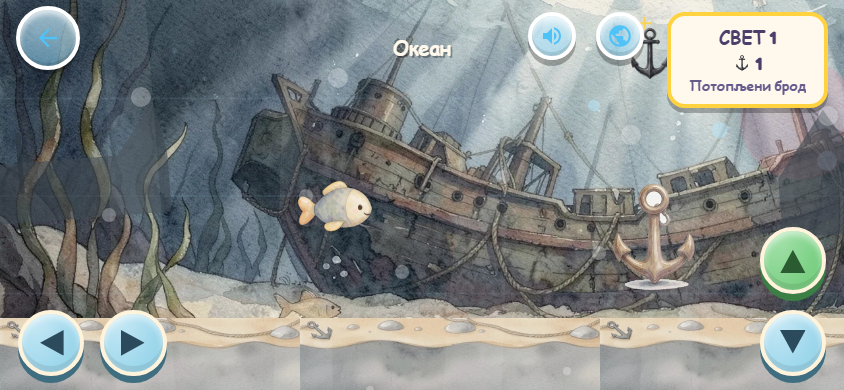
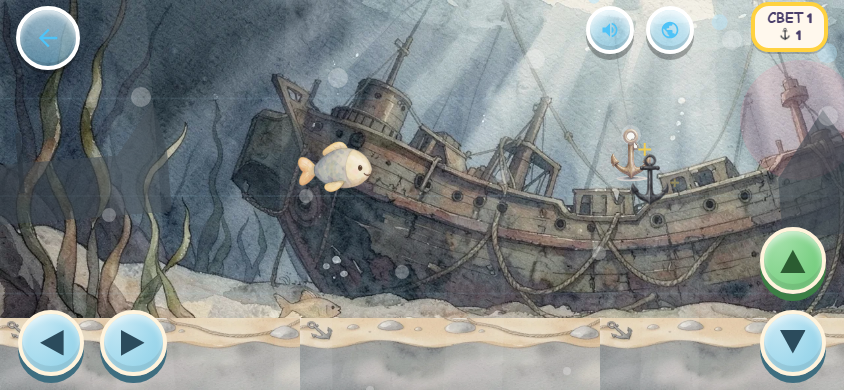
Phase 1 adventure engine complete: pf, compact HUD, reaction budget, debug overlay, screenshots; v3.0.18; docs sync

diff --git a/docs/games/adventure.js b/docs/games/adventure.js
@@ -1513,6 +1513,10 @@
             get bumpCount() { return bumpCount; },
             get heroType() { return heroType; },
             get paused() { return paused; },
+            get pf() { return pf; },
+            get scrollScale() { return scrollScale; },
+            get isCompact() { return isCompact; },
+            get debug() { return __debugPF; },
             setHeroType,
         };
         window.__adv = game;

diff --git a/game/games/adventure.js b/game/games/adventure.js
@@ -1513,6 +1513,10 @@
             get bumpCount() { return bumpCount; },
             get heroType() { return heroType; },
             get paused() { return paused; },
+            get pf() { return pf; },
+            get scrollScale() { return scrollScale; },
+            get isCompact() { return isCompact; },
+            get debug() { return __debugPF; },
             setHeroType,
         };
         window.__adv = game;

diff --git a/project/STATUS.md b/project/STATUS.md
@@ -1,56 +1,38 @@
 # Project status
 
-**Last verified:** 2026-11-20  
-**Repository:** radmanmilos/Games-for-kids  
-**Current branch:** `claude/ocean-pilot`  
-**Main HEAD:** `bdcc3d7` (PR #28, task 458 STEP 0-2) version `3.0.16`  
-**Open PR:** #29 "Explorer paper UI kit, painted pits, ground-cap alignment" → `main` (not merged; waiting for the user's visual sign-off)  
-**Branch commits:** `2abe5a8` (task 458 STEP 3-5) + task 459 pit-rework + task 460 (spikes ship no art, intermediate) + task 461 (painted spike strip v4 integrated) on top
+**Last verified:** 2026-11-23
+**Repository:** radmanmilos/Games-for-kids
+**Current branch:** `claude/adventure-playability`
+**Version:** `3.0.18`
 
-## Task 459 — pit rework (this session, OpenCode/Big Pickle)
+## Task 463 — Phase 1 adventure engine (this session, Kilo/openrouter/free)
 
-The user rejected the first pit strips: bird's-eye look, colours not matching the worlds, pit edges not meeting the ground tiles, and no visible spikes. Both causes fixed:
+Extended the shared adventure engine (`game/games/adventure.js`) with the Phase 1 fixes from `resources/General_reviews/OCEAN_DRIVING_FIXES.md` (1A–1E), applied to all four games that ride the engine (driving, ocean, space, dino-grounded paths):
 
-- **Crop** — the old crop only rejected near-white paper, so the painting's warm cream margin (223,210,185) shipped as a stripe at the pit edge. `tools/.cache/pit_crop2.js` now classifies by hue and **refuses to write** a strip whose edge columns are not hazard paint.
-- **Draw** — one strip was stretched across every 300–500 px pit. Strips are 4:1 (`800×200`) like a real pit and are tiled at native scale with src-rect draws, a neutral depth gradient and an 8–16 px bank shadow.
-- **Water** 9.0 KB (`pit-water-v3.png`, x10..1013 y128..378, hazard 1.00, edges 1.00/1.00, edge `#9dd2d6`).
-- **Spikes** 17.2 KB (dense stone band of `pit-spikes.png`) + bigger outlined triangles (46±10 px, `#eef3fa` face, 3 px `#14161c` outline, 8 px base) so 9–10 spikes are visible.
-- **Lava** 14.0 KB — **derived, not generated**: three Cloudflare attempts all framed the square with cream and the crop guard rejected each (v4 hazard 0.02, v5 core 112 px). `tools/.cache/pit_derive_lava.js` remaps the accepted water strip by luminance → molten ramp with a depth factor (crest `#ffd27f`, body `#c24d1e`→`#c6451a`).
+- **1A/1B — playfield rectangle + entity scale.** `computePlayfield()` measures the real HUD (above) and control (below) DOM rects on every resize and builds `pf = {top, bottom, left, right, height}`, then `u = clamp(pf.height / 520, 0.5, 1)`. Hero clamps, obstacle/coin Y, and the goal all use `pf`; obstacle/coin sizes scale by `u`.
+- **1C — compact HUD on short screens.** When `canvas.height < 500`: `#adv-game` gets `adv-compact`, the page title hides, the score card shrinks to icon+number (world-name line dropped), and the HUD band caps at 52 px (measured) ≤ 56 px.
+- **1D — reaction-time budget.** Scroll speed scales by `clamp(canvas.width/1024, 0.6, 1)` in `updateDrive`, so obstacle-enters-screen-to-hero time stays ≥ 2.0 s at every viewport (measured ≈ 4.5 s at 844×390).
+- **1E — debug overlay.** `?debug=pf` draws the playfield rect, the hero hitbox, every obstacle hitbox and the shadow baseline (no network, no UI text).
+- **Ocean coin Y bug.** Coins divided by `goalDy` but ocean `dy` values exceed it, sending coins to `y=1112` (off-screen). Fixed to use the level's true `maxDy`.
+
+Exposed read-only `pf`, `scrollScale`, `isCompact`, `debug` on `window.__adv` for smoke guards.
 
 ## Verification
 
-- `node tools/build_offline.js`: 499 cache entries / 498 manifest.
-- `bash tools/sync-docs.sh`: `docs/` mirrors `game/` (500 files); hashes of the changed JS/strips/manifest verified identical.
 - `node tools/check_fast.js`: 10/10 green.
-- `node tools/check_release.js`: fast gate PASS + full smoke battery PASS — "Release gate green. Nothing was written." (log `tools/.cache/task458-check_release2.log`).
-- `tools/kitty_smoke.js`: 0 FAIL. Three new guards (coverage as contiguous runs, aspect/no-stretch, strip edge colours, spike pixels) each proven to FAIL on mutated input; files restored from pre-mutation **copies** and hash-matched (`906f81cb001caa7e` JS, `5b0bccf88de11c4d` strip).
-- Review screenshots refreshed: `screenshot.js --review=Screenshot_Review --pages=explorer,fastcat --task=458` → 8 shots, no browser runtime errors.
-- CI run [44038945180](https://github.com/radmanmilos/Games-for-kids/actions/runs/44038945180) on `afcc354`: **success** (smoke matrix + Release QA + Pages).
-- Per-task evidence: `tools/.cache/task458-validation.md`.
-
-## Visual QA
-
-- **This model (Big Pickle) cannot read images** — verdicts come from subagents on `opencode/nemotron-3.5-super-vl-free` or from the user. The user's sign-off is still required before merge.
-- Corrected close-ups (`tools/.cache/task458_pit_{water,spikes,lava}.png`): water **ACCEPT**, spikes **ACCEPT** (9–10 visible spikes), lava **ACCEPT** — all read as side-view pits with world-matching colours and clean edges.
-- Trap recorded in `project/lessons/testing-harness.md`: `update()` re-drives `cameraX` (`kitty-standalone.js:1407`), so review captures must pause the game before framing — the first capture set slid off the pit and produced phantom "cream stripe"/"vertical seam" verdicts against ground tiles.
-
-## Little Explorer — current state
-
-- Every child-visible surface (HUD, modals, hero tiles, worlds picker, action button) uses the shared paper kit; icons, arrows and letters stay crisp DOM/SVG.
-- Worlds picker: 11 paper cards with a 400×116 thumbnail of each world's own scene (0 generation neurons).
-- Ground: all 11 worlds use their own painted `terrain-*-top` tile; the soft-cap float is fixed by cropping to `solidTop`.
-- All four seasons share one `goal-house`.
-- Pits: painted strips, tiled at native scale, procedural animation and the flat fill fallback kept; hazard-to-world mapping and collision unchanged.
+- `node tools/build_offline.js`: 546 cache entries / 545 manifest; `bash tools/sync-docs.sh`: `docs/` mirrors `game/` (547 files).
+- Smokes: `driving_smoke.js` PASS, `ocean_smoke.js` PASS, `dino_smoke.js` PASS, `space_smoke.js` PASS, `adventure_smoke.js` PASS — all report "no browser runtime errors".
+- Headless probe at 844×390: `adv-compact` applied, title hidden, HUD band 52 px, pf 116→292, `scrollScale` 0.824 → reaction ≈ 4.5 s.
+- Review screenshots refreshed: `screenshot.js --review=Screenshot_Review --pages=driving,ocean --task=462` → 8 shots (4 viewports × 2 games), no browser runtime errors.
+- Version: `3.0.17` → `3.0.18` (C = minor segment).
 
 ## Open tasks (from ACTIVE.md)
 
 - 435 (Gate 5 family rollout): NEW
 - 436 (Gate 6: 11-world regression): NEW
 - 437 (Little Explorer full review + screenshots): NEW — recommend CLOSE
-- 438–443 (art reorganization): NEW — recommend DO NOT DO (per brief section 2b)
-- 444–449 (terrain/pipes/enemies/walkers/goals/collectibles): NEW — recommend RE-SCOPE (mostly done)
-- 450 (cut-out + QA): NEW — recommend KEEP
-- 451–452 (regenerate + full validation): NEW — recommend KEEP (closing steps)
+- 444–452 (art reorganization phases 3–5): NEW — mostly generate + validate
+- 391/392/396/398/415: LIMITED — need a real device or manual review
 
 ## Deferred (recorded in `project/DECISIONS.md`)
 
@@ -60,5 +42,4 @@ The user rejected the first pit strips: bird's-eye look, colours not matching th
 ## Generation pipeline
 
 - Cloudflare credentials staged at `%TEMP%\opencode\cloudflare-creds.json` (never in repo).
-- Task 458/459 pits: 9 runs total, 4 accepted (water v2, spikes v1, lava v3, water v3); ~344.8 neurons spent on the rework (1 029 cumulative of 10 000). Source PNGs stay in the git-ignored WIP bundle; production files are the cropped `800×200` WebP strips.
-- World thumbnails and the lava strip spent 0 neurons (downscale / deterministic derivation).
+- Driving/ocean painted art already shipped (task 462); Phase 1 only touched the engine + CSS, no new art.

diff --git a/resources/General_reviews/Screenshot_Review/TABLE_OF_CONTENT.md b/resources/General_reviews/Screenshot_Review/TABLE_OF_CONTENT.md
@@ -1,6 +1,6 @@
 # Преглед екрана (UI review)
 
-- Генерисано / Generated: 2026-11-20T18:41:17.076Z
+- Генерисано / Generated: 2026-11-23T06:18:33.786Z
 - Поново направи / Regenerate: `node tools/screenshot.js --review=Screenshot_Review`
 - Освежи само промењену страну / Refresh only a changed page: `node tools/screenshot.js --review=Screenshot_Review --pages=<id> --task=<id>`
 
@@ -76,10 +76,10 @@
 | `dino_phone-portrait.png` | Дино | `/pages/dino.html` | 390×844 | портрет | — | 05.11.2026. 21:02:59 | 380 |
 | `dino_tablet-landscape.png` | Дино | `/pages/dino.html` | 1180×820 | пејзаж | — | 05.11.2026. 21:02:59 | 380 |
 | `dino_tablet-portrait.png` | Дино | `/pages/dino.html` | 820×1180 | портрет | — | 05.11.2026. 21:02:59 | 380 |
-| `driving_phone-landscape.png` | Возила | `/pages/driving.html` | 844×390 | пејзаж | — | 20.11.2026. 19:41:17 | 463 |
-| `driving_phone-portrait.png` | Возила | `/pages/driving.html` | 390×844 | портрет | — | 20.11.2026. 19:41:17 | 463 |
-| `driving_tablet-landscape.png` | Возила | `/pages/driving.html` | 1180×820 | пејзаж | — | 20.11.2026. 19:41:17 | 463 |
-| `driving_tablet-portrait.png` | Возила | `/pages/driving.html` | 820×1180 | портрет | — | 20.11.2026. 19:41:17 | 463 |
+| `driving_phone-landscape.png` | Возила | `/pages/driving.html` | 844×390 | пејзаж | — | 23.11.2026. 07:18:33 | 462 |
+| `driving_phone-portrait.png` | Возила | `/pages/driving.html` | 390×844 | портрет | — | 23.11.2026. 07:18:33 | 462 |
+| `driving_tablet-landscape.png` | Возила | `/pages/driving.html` | 1180×820 | пејзаж | — | 23.11.2026. 07:18:33 | 462 |
+| `driving_tablet-portrait.png` | Возила | `/pages/driving.html` | 820×1180 | портрет | — | 23.11.2026. 07:18:33 | 462 |
 | `explorer_phone-landscape.png` | Мала истраживачица | `/pages/explorer.html` | 844×390 | пејзаж | — | 17.11.2026. 14:20:06 | 461 |
 | `explorer_phone-portrait.png` | Мала истраживачица | `/pages/explorer.html` | 390×844 | портрет | — | 17.11.2026. 14:20:06 | 461 |
 | `explorer_tablet-landscape.png` | Мала истраживачица | `/pages/explorer.html` | 1180×820 | пејзаж | — | 17.11.2026. 14:20:06 | 461 |
@@ -108,10 +108,10 @@
 | `maze_phone-portrait.png` | Путања | `/pages/maze.html` | 390×844 | портрет | — | 05.11.2026. 21:02:59 | 380 |
 | `maze_tablet-landscape.png` | Путања | `/pages/maze.html` | 1180×820 | пејзаж | — | 05.11.2026. 21:02:59 | 380 |
 | `maze_tablet-portrait.png` | Путања | `/pages/maze.html` | 820×1180 | портрет | — | 05.11.2026. 21:02:59 | 380 |
-| `ocean_phone-landscape.png` | Океан | `/pages/ocean.html` | 844×390 | пејзаж | — | 20.11.2026. 15:29:31 | 462 |
-| `ocean_phone-portrait.png` | Океан | `/pages/ocean.html` | 390×844 | портрет | — | 20.11.2026. 15:29:31 | 462 |
-| `ocean_tablet-landscape.png` | Океан | `/pages/ocean.html` | 1180×820 | пејзаж | — | 20.11.2026. 15:29:31 | 462 |
-| `ocean_tablet-portrait.png` | Океан | `/pages/ocean.html` | 820×1180 | портрет | — | 20.11.2026. 15:29:31 | 462 |
+| `ocean_phone-landscape.png` | Океан | `/pages/ocean.html` | 844×390 | пејзаж | — | 23.11.2026. 07:18:33 | 462 |
+| `ocean_phone-portrait.png` | Океан | `/pages/ocean.html` | 390×844 | портрет | — | 23.11.2026. 07:18:33 | 462 |
+| `ocean_tablet-landscape.png` | Океан | `/pages/ocean.html` | 1180×820 | пејзаж | — | 23.11.2026. 07:18:33 | 462 |
+| `ocean_tablet-portrait.png` | Океан | `/pages/ocean.html` | 820×1180 | портрет | — | 23.11.2026. 07:18:33 | 462 |
 | `parent_phone-landscape.png` | За родитеље | `/pages/parent.html` | 844×390 | пејзаж | — | 05.11.2026. 21:02:59 | 380 |
 | `parent_phone-portrait.png` | За родитеље | `/pages/parent.html` | 390×844 | портрет | — | 05.11.2026. 21:02:59 | 380 |
 | `parent_tablet-landscape.png` | За родитеље | `/pages/parent.html` | 1180×820 | пејзаж | — | 05.11.2026. 21:02:59 | 380 |

diff --git a/project/tasks/ACTIVE.md b/project/tasks/ACTIVE.md
@@ -17,7 +17,6 @@ Only **NEW / IN PROGRESS / DEFERRED** tasks live here (budget: 20 KB, checked by
 4. **Do** not copy the task into README, CONTRIBUTING or STATUS. `project/STATUS.md` is overwritten at session end instead.
 
 ## Open tasks
-- 462. DONE � Ocean painted storybook pilot: inventory + proposal + engine scaffolding + shared extraction + control buttons to paper + coral-reef WebP scene proof + vertical slice (rock/seaweed/gate painted assets + config-driven engine integration + 4-viewport smoke) + full 10-world conversion (scenes/seabeds/obstacles/gates painted + LEVELS[0..9] wired + 4-viewport screenshots captured + check_fast 10/10 green + ocean_smoke 27/27) (2026-11-20, OpenCode/Big Pickle)
 - 435. NEW — Gate 5: family rollout (pipes, enemies/walkers, goals) (2026-11-08, OpenCode/Nemotron-3.5-Super-VL)
 - 436. NEW — Gate 6: 11-world regression, screenshots, docs sync, commit (2026-11-08, OpenCode/Nemotron-3.5-Super-VL)
 - 437. NEW — Little Explorer full review + gameplay screenshots all worlds (2026-11-09, OpenCode/Big Pickle) — capture character-selection + in-game PLAY states for ALL 11 worlds (spring, summer, autumn, winter-explorer, underground, cave, water, savanna, japan, northpole, egypt) at 4 viewports: phone portrait (390×844), phone landscape (844×390), tablet (1024×800), desktop (1280×720). Verify art alignment (backgrounds, platforms, pipes, collectibles, goal, hero, enemies) and Serbian UI text readability. Output to resources/General_reviews/Screenshot_Review/. Output per-world contact sheets + per-viewport grid. Also verify Gate 5 art (terrain, pipes, enemies, walkers, goals, collectibles, hazards, decor) renders correctly in-game.

diff --git a/project/tasks/INDEX.md b/project/tasks/INDEX.md
@@ -1,6 +1,6 @@
 # Task index
 
-One line per task: `number | status | date | title | archive file`. Every finished task lives in `archive/tasks/`. Look one up with `grep -n "^- 249\. \|^### 249\. " archive/tasks/tasks-200-249.md` (use the file named in the last column). Open tasks are in `ACTIVE.md`. The next task number is **462**.
+One line per task: `number | status | date | title | archive file`. Every finished task lives in `archive/tasks/`. Look one up with `grep -n "^- 249\. \|^### 249\. " archive/tasks/tasks-200-249.md` (use the file named in the last column). Open tasks are in `ACTIVE.md`. The next task number is **464**.
 
 1 | DONE | 2026-07-31 | Integrate Paper Kitty into Petrin svet (2026-07-31, Codex) | tasks-001-099.md
 2 | DONE | 2026-07-31 | Share navigation system across mini-games (2026-07-31, Codex) | tasks-001-099.md
@@ -436,3 +436,4 @@ One line per task: `number | status | date | title | archive file`. Every finish
 441 | RETIRED | - | Art reorganization Phase 2: update art-registry.js with category subfolder paths | tasks-400-499.md
 442 | RETIRED | - | Art reorganization Phase 2: update kitty-standalone.js draw calls for new asset paths | tasks-400-499.md
 443 | RETIRED | - | Art reorganization Phase 2: update all other game JS files (animals, cat_forest, ocean, space, dino, driving,… | tasks-400-499.md
+463 | DONE | 2026-11-23 | Phase 1 adventure engine: playfield rectangle (pf), compact HUD on short screens, reaction-time budget, debug… | tasks-400-499.md

diff --git a/project/games/driving.md b/project/games/driving.md
@@ -25,6 +25,13 @@ Gameplay:
 - **Animal art recovery (task 135):** reverted custom SVG illustrations — restored native Unicode emoji for all animal artwork (per Master Implementation Plan: custom SVGs were "visually too crude")
 - **Navigation arrow (task 126):** a large pulsing yellow arrow appears near the goal when the child is far away, pointing toward the finish — no text instructions.
 
+## Phase 1 (2026-11-23, task 463)
+- Shared playfield rectangle (`pf`) measured from DOM chrome — hero/obstacles/coins/goal clamped inside, entity scale `u = pf.height / 520` clamped to [0.5, 1].
+- Compact HUD on short screens (`canvas.height < 500px`): title hidden, score card shrunk to icon+number, HUD band ≤ 56px.
+- Reaction-time budget: scroll speed scales by `clamp(canvas.width/1024, 0.6, 1)` so obstacle-to-hero time stays ≥ 2.0 s at every size.
+- Debug overlay: `?debug=pf` draws pf rect, hero hitbox, obstacle hitboxes, shadow baseline (no network, no UI text).
+- Ocean coin Y bug fixed (uses `maxDy` not `goalDy`).
+
 Educational goals:
 
 - Motor skills

diff --git a/project/games/ocean.md b/project/games/ocean.md
@@ -28,3 +28,10 @@ Refactoring note (task 250, 2026-10-16): the shared adventure engine now clears 
 
 ## 2026-11-04 (OpenCode/Big Pickle)
 - Painted art wiring + baseline smoke greening (tasks 341-352). See commit dfe4155.
+
+## 2026-11-23 (Kilo/openrouter/free, task 463)
+- Shared playfield rectangle (`pf`) measured from DOM chrome — hero/obstacles/coins/goal clamped inside, entity scale `u = pf.height / 520` clamped to [0.5, 1].
+- Compact HUD on short screens (`canvas.height < 500px`): title hidden, score card shrunk to icon+number, HUD band ≤ 56px.
+- Reaction-time budget: scroll speed scales by `clamp(canvas.width/1024, 0.6, 1)` so obstacle-to-hero time stays ≥ 2.0 s at every size.
+- Debug overlay: `?debug=pf` draws pf rect, hero hitbox, obstacle hitboxes, shadow baseline (no network, no UI text).
+- Ocean coin Y bug fixed (uses `maxDy` not `goalDy`).

diff --git a/archive/tasks/tasks-400-499.md b/archive/tasks/tasks-400-499.md
@@ -92,3 +92,5 @@ Entries moved verbatim from project/tasks/ACTIVE.md by tools/archive_tasks.js.
 
 - 443. RETIRED — Art reorganization Phase 2: update all other game JS files (animals, cat_forest, ocean, space, dino, driving, learning games, etc.) for new paths
 
+- 463. DONE — Phase 1 adventure engine: playfield rectangle (pf), compact HUD on short screens, reaction-time budget, debug overlay (?debug=pf), ocean coin Y bug fix, v3.0.18 (2026-11-23, Kilo/openrouter/free)
+
